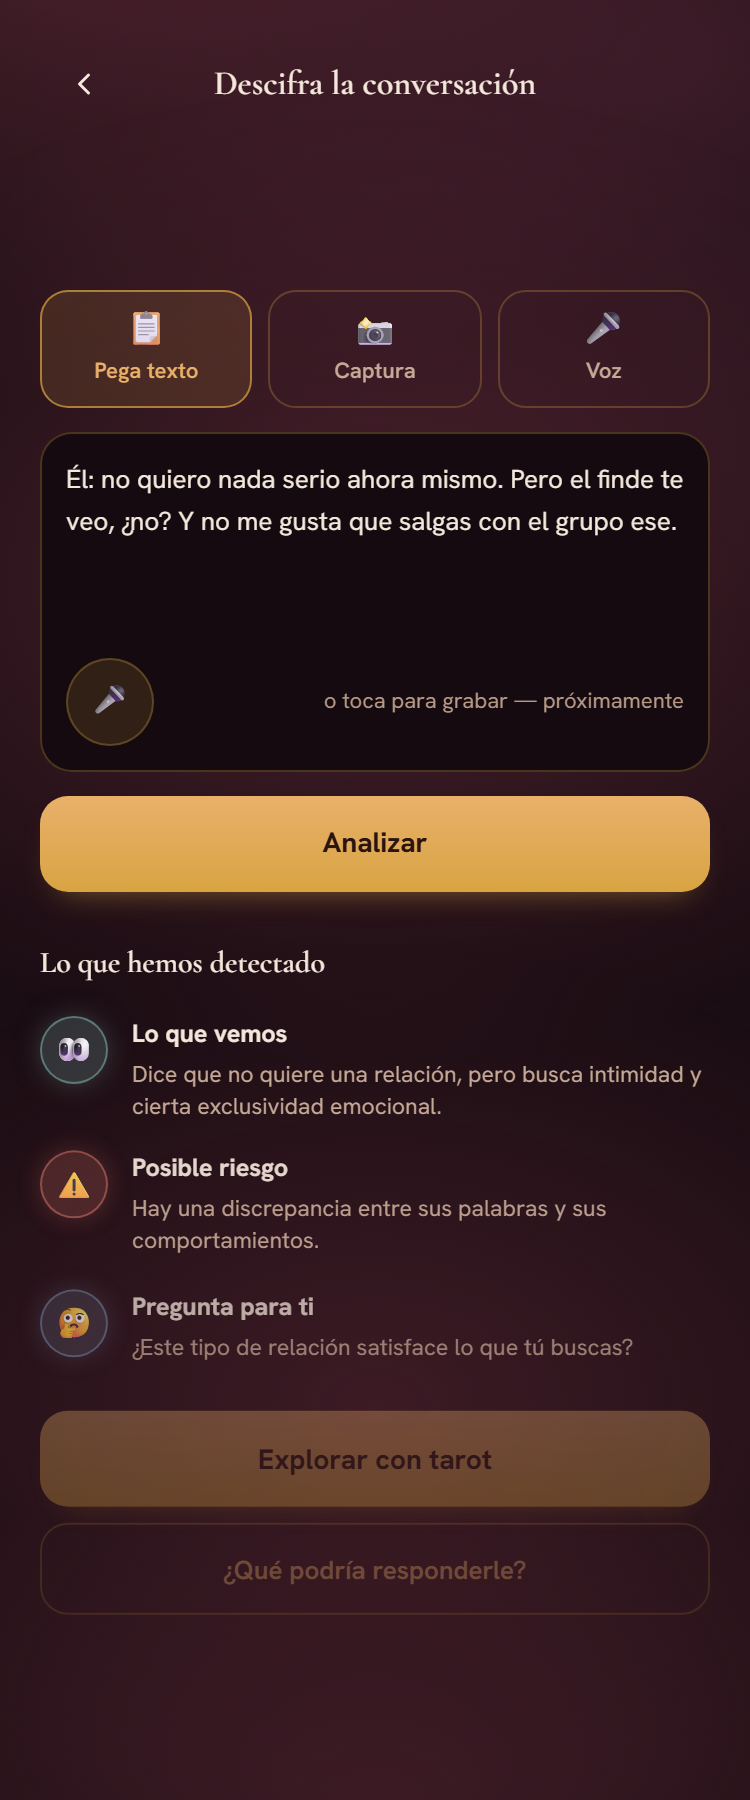
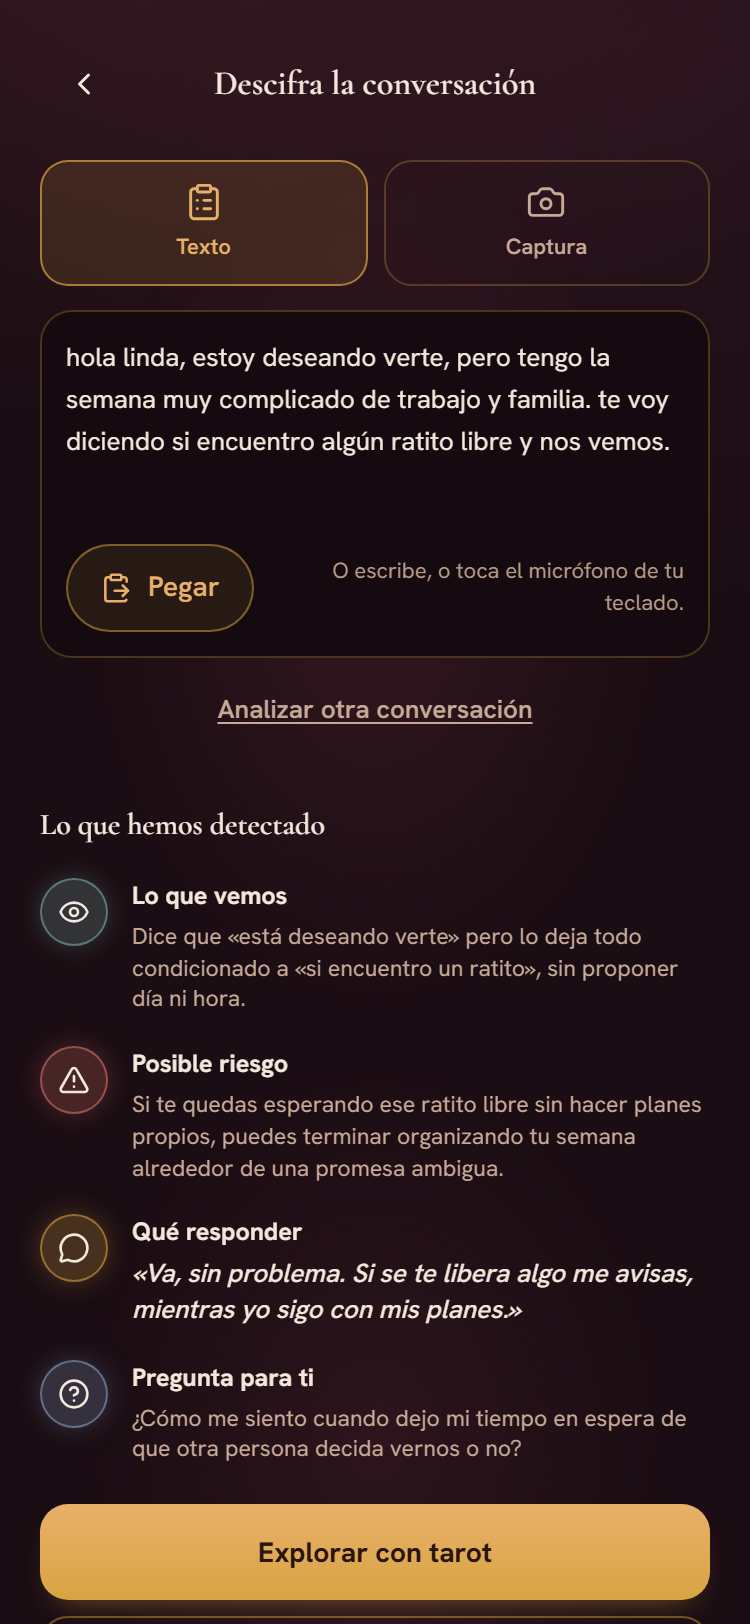
feat(descifrar): con el resultado a la vista se quita el botón Analizar y se ofrece analizar otra conversación

diff --git a/app/app/descifrar/page.tsx b/app/app/descifrar/page.tsx
@@ -277,7 +277,7 @@ export default function DescifrarPage() {
                 )}
               </AnimatePresence>
 
-              {!(estado === 'resultado' && !disponible) && (
+              {estado !== 'resultado' && (
               <div className="mt-3">
                 <AppButton onClick={analizar} disabled={estado === 'cargando'} busy={estado === 'cargando'}>
                   {estado === 'cargando' && (
@@ -362,7 +362,7 @@ export default function DescifrarPage() {
                 )}
               </AnimatePresence>
 
-              {!(estado === 'resultado' && !disponible) && (
+              {estado !== 'resultado' && (
               <div className="mt-3">
                 <AppButton onClick={analizar} disabled={estado === 'cargando'} busy={estado === 'cargando'}>
                   {estado === 'cargando' ? 'Analizando…' : disponible ? 'Analizar captura' : 'Elegir mi plan'}
@@ -373,6 +373,23 @@ export default function DescifrarPage() {
           )}
         </AnimatePresence>
 
+        {/* Con el resultado a la vista el botón «Analizar» ya no hace falta: se ofrece empezar de nuevo (si se edita el texto, vuelve el botón). */}
+        {estado === 'resultado' && (
+          <div className="mt-1 flex justify-center">
+            <button
+              type="button"
+              onClick={() => {
+                setTexto('');
+                setImagen(null);
+                setEstado('reposo');
+                window.scrollTo?.({ top: 0 });
+              }}
+              className="min-h-11 text-[13px] font-semibold text-[var(--text-secondary)] underline underline-offset-2"
+            >
+              Analizar otra conversación
+            </button>
+          </div>
+        )}
         </>
         )}
 

diff --git a/ESTADO.md b/ESTADO.md
@@ -1424,3 +1424,4 @@ VENTA 17/20 · FUNNEL 14/20 · PRODUCTO 15/20 · CONFIANZA 9/15 · VELOCIDAD 8/1
 - 2026-11-17 — PRIMER COBRO REAL de la prueba mensual `+prueba6` VERIFICADO: webhook PURCHASE_APPROVED = applied (2026-11-16 14:10:35 UTC), subscriptions.estado `active`, current_period_end 2026-12-16 12:00 UTC, y payment_transactions registra HP0170124640 (amount_minor 1000 = 10 € base, EUR). Dudas de la dueña sobre los correos de Hotmart («cobro/recurrencia 2»): NO es doble cobro; Hotmart numera desde el inicio de la suscripción y la «recurrencia 1» fue el INICIO GRATIS de la prueba (HP3693403302, sin importe, 2026-11-13). Importes: 12,10 € = 10 € + 21 % IVA (lo que pagó la compradora); 8,68 € = lo que recibe la vendedora tras la comisión de Hotmart (dato real de una venta mensual en España a 10 €). Próximo cobro 2026-12-16. PENDIENTE: pedir reembolso desde /app/cancelar → «Pedir reembolso» (cancela en Hotmart y evita el cobro de diciembre), que ella apruebe en Hotmart (Ventas → HP0170124640 → Reembolsar al comprador; la comisión no se devuelve) y verificar `refunded` (garantía de 15 días: hasta ~1-dic). Nota para el copy: el aviso previo al cobro NO llegó (comprobar con la dueña si Hotmart mandó algún correo antes del 16-nov).
 - 2026-11-17 — DESCIFRAR con UN SOLO MENSAJE (reportado por la dueña desde prueba6: pegó un único mensaje recibido y LUMA contestó «Leo tus ganas de encontrarte…, pega la conversación completa»: sin coherencia, atribuía el mensaje a la usuaria y no analizaba). REPRODUCIDO con IA real: un solo mensaje → `no_conversacion` sentimental. ARREGLO (local, SIN publicar) en app/api/descifrar/route.ts: (1) un solo mensaje (o varios de la misma persona) SÍ se analiza, como mensaje RECIBIDO salvo que el texto diga que lo escribió ella; «vemos» avisa con suavidad de que con un solo mensaje la mirada es parcial; si lo escribió ella se analiza cómo suena y «responder» propone una versión más tranquila; `no_conversacion` solo para lo que no es ningún mensaje entre personas (saludo/agradecimiento a LUMA, pregunta suelta) y sin atribuirle sentimientos; (2) un único mensaje agresivo/de maltrato se analiza (no crisis ni no_conversacion) y «riesgo» DEBE llevar las líneas por país; (3) NUEVO lib/json-ia.ts: el extractor toma el ÚLTIMO JSON válido (el modelo a veces se «corrige» y escribe dos: antes daba 502 «Sin respuesta»); (4) NUEVO lib/ayuda-crisis.ts: si la IA marca `crisis` y se olvida de las líneas, el servidor las añade (red de seguridad determinista; tope del mensaje 1000 caracteres). Probado con IA real: su mensaje → análisis con aviso de mirada parcial; saludo y pregunta suelta → siguen en no_conversacion; conversación de 4 mensajes ✓; mensaje escrito por ella ✓; crisis ✓ con líneas; maltrato completo ✓ con líneas; único mensaje de maltrato analizado (a veces la IA lo marca crisis sin líneas → la red de seguridad las añade). 72 pruebas ✓ (+8: json-ia 5, ayuda-crisis 3) tsc ✓ build ✓. Limitación: la IA no es determinista; «riesgo» con líneas por violencia depende del modelo salvo en el caso `crisis`.
 - 2026-11-17 — PUBLICADO 0fec154 (por «publica» de la dueña): Descifrar analiza un solo mensaje, extractor de JSON robusto y líneas de ayuda garantizadas en crisis. Verificado: /api/version en producción devuelve commit 0fec154. NO se hizo llamada real de IA en producción (habría gastado el único resultado gratis de la IP de la dueña); la comprobación funcional la hace ella con +prueba6 pegando un solo mensaje.
+- 2026-11-17 — DESCIFRAR: con el resultado a la vista ya no sale el botón «Analizar» (pedido de la dueña: «la cajita de analizar sobra»): app/app/descifrar/page.tsx oculta el botón (texto y captura) cuando `estado === 'resultado'` y ofrece «Analizar otra conversación» (vacía texto/imagen y vuelve al reposo); si edita el texto, el resultado se quita y vuelve el botón. Verificado en navegador (sesión simulada): antes de analizar hay botón; con resultado no hay botón y sí «otra conversación»; editar → vuelve el botón; «otra conversación» → texto vacío. Captura docs/revisiones/descifrar-resultado-375.png. Commit local, SIN publicar.
